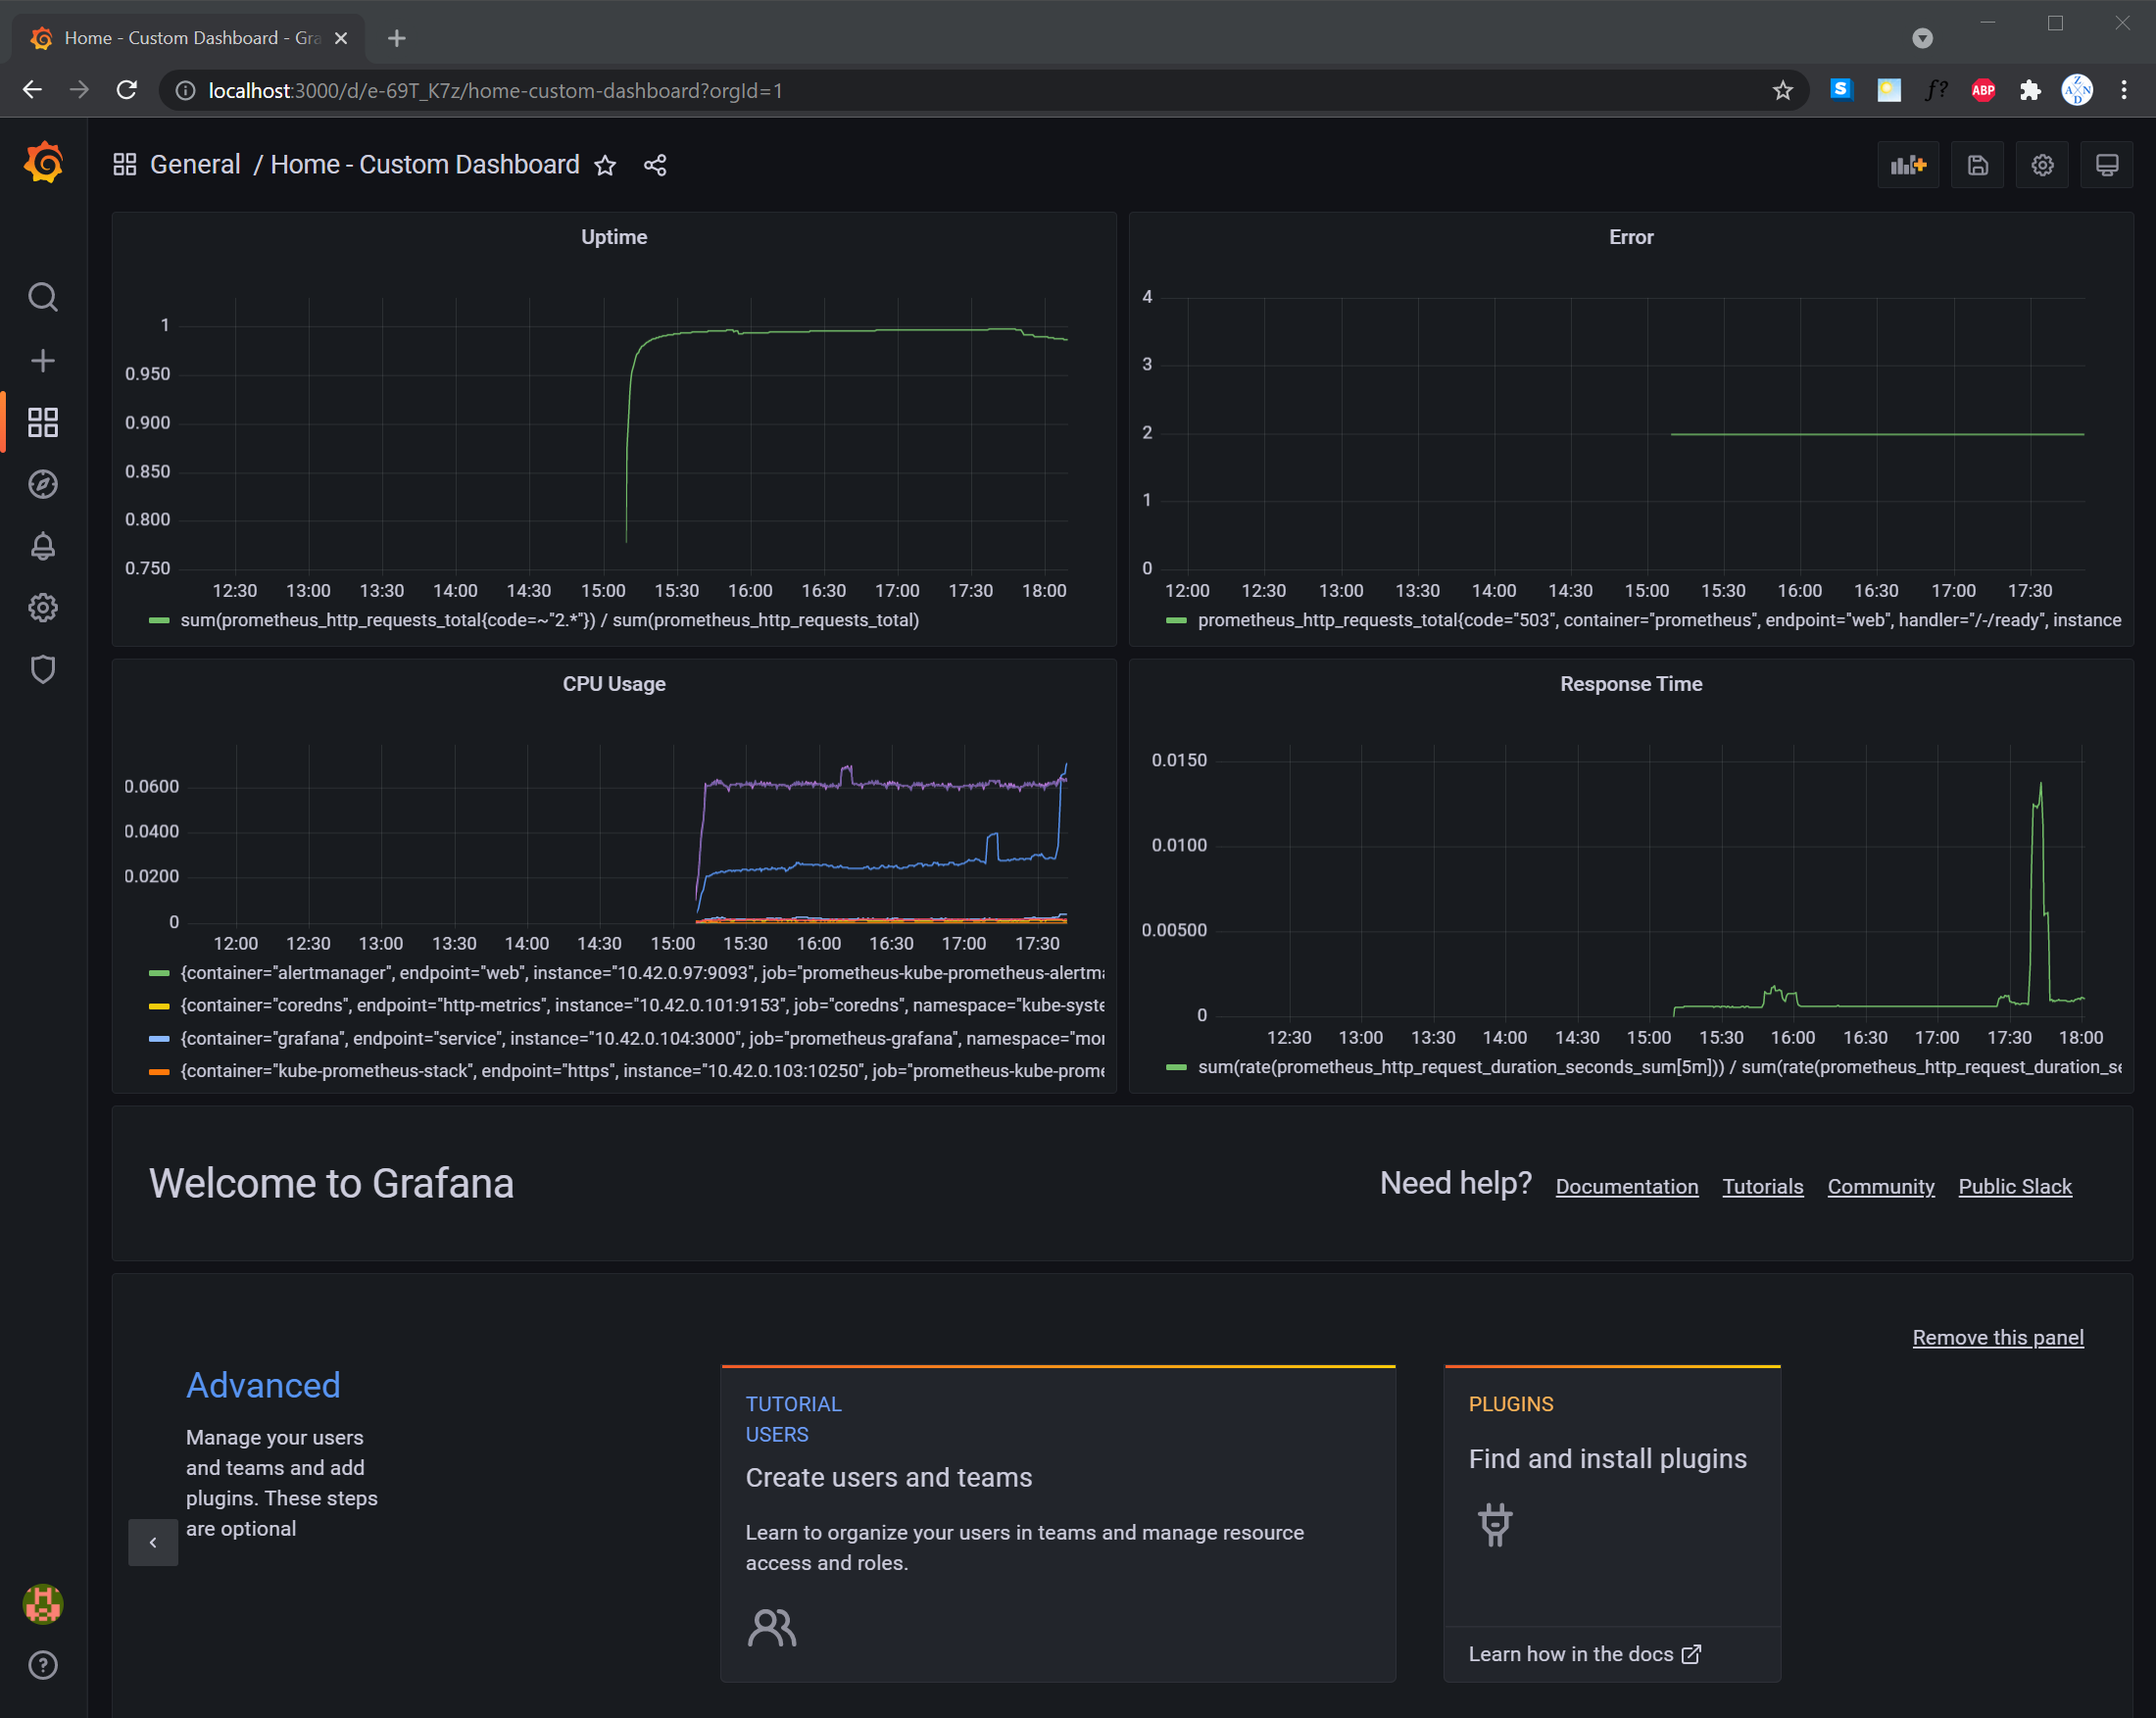
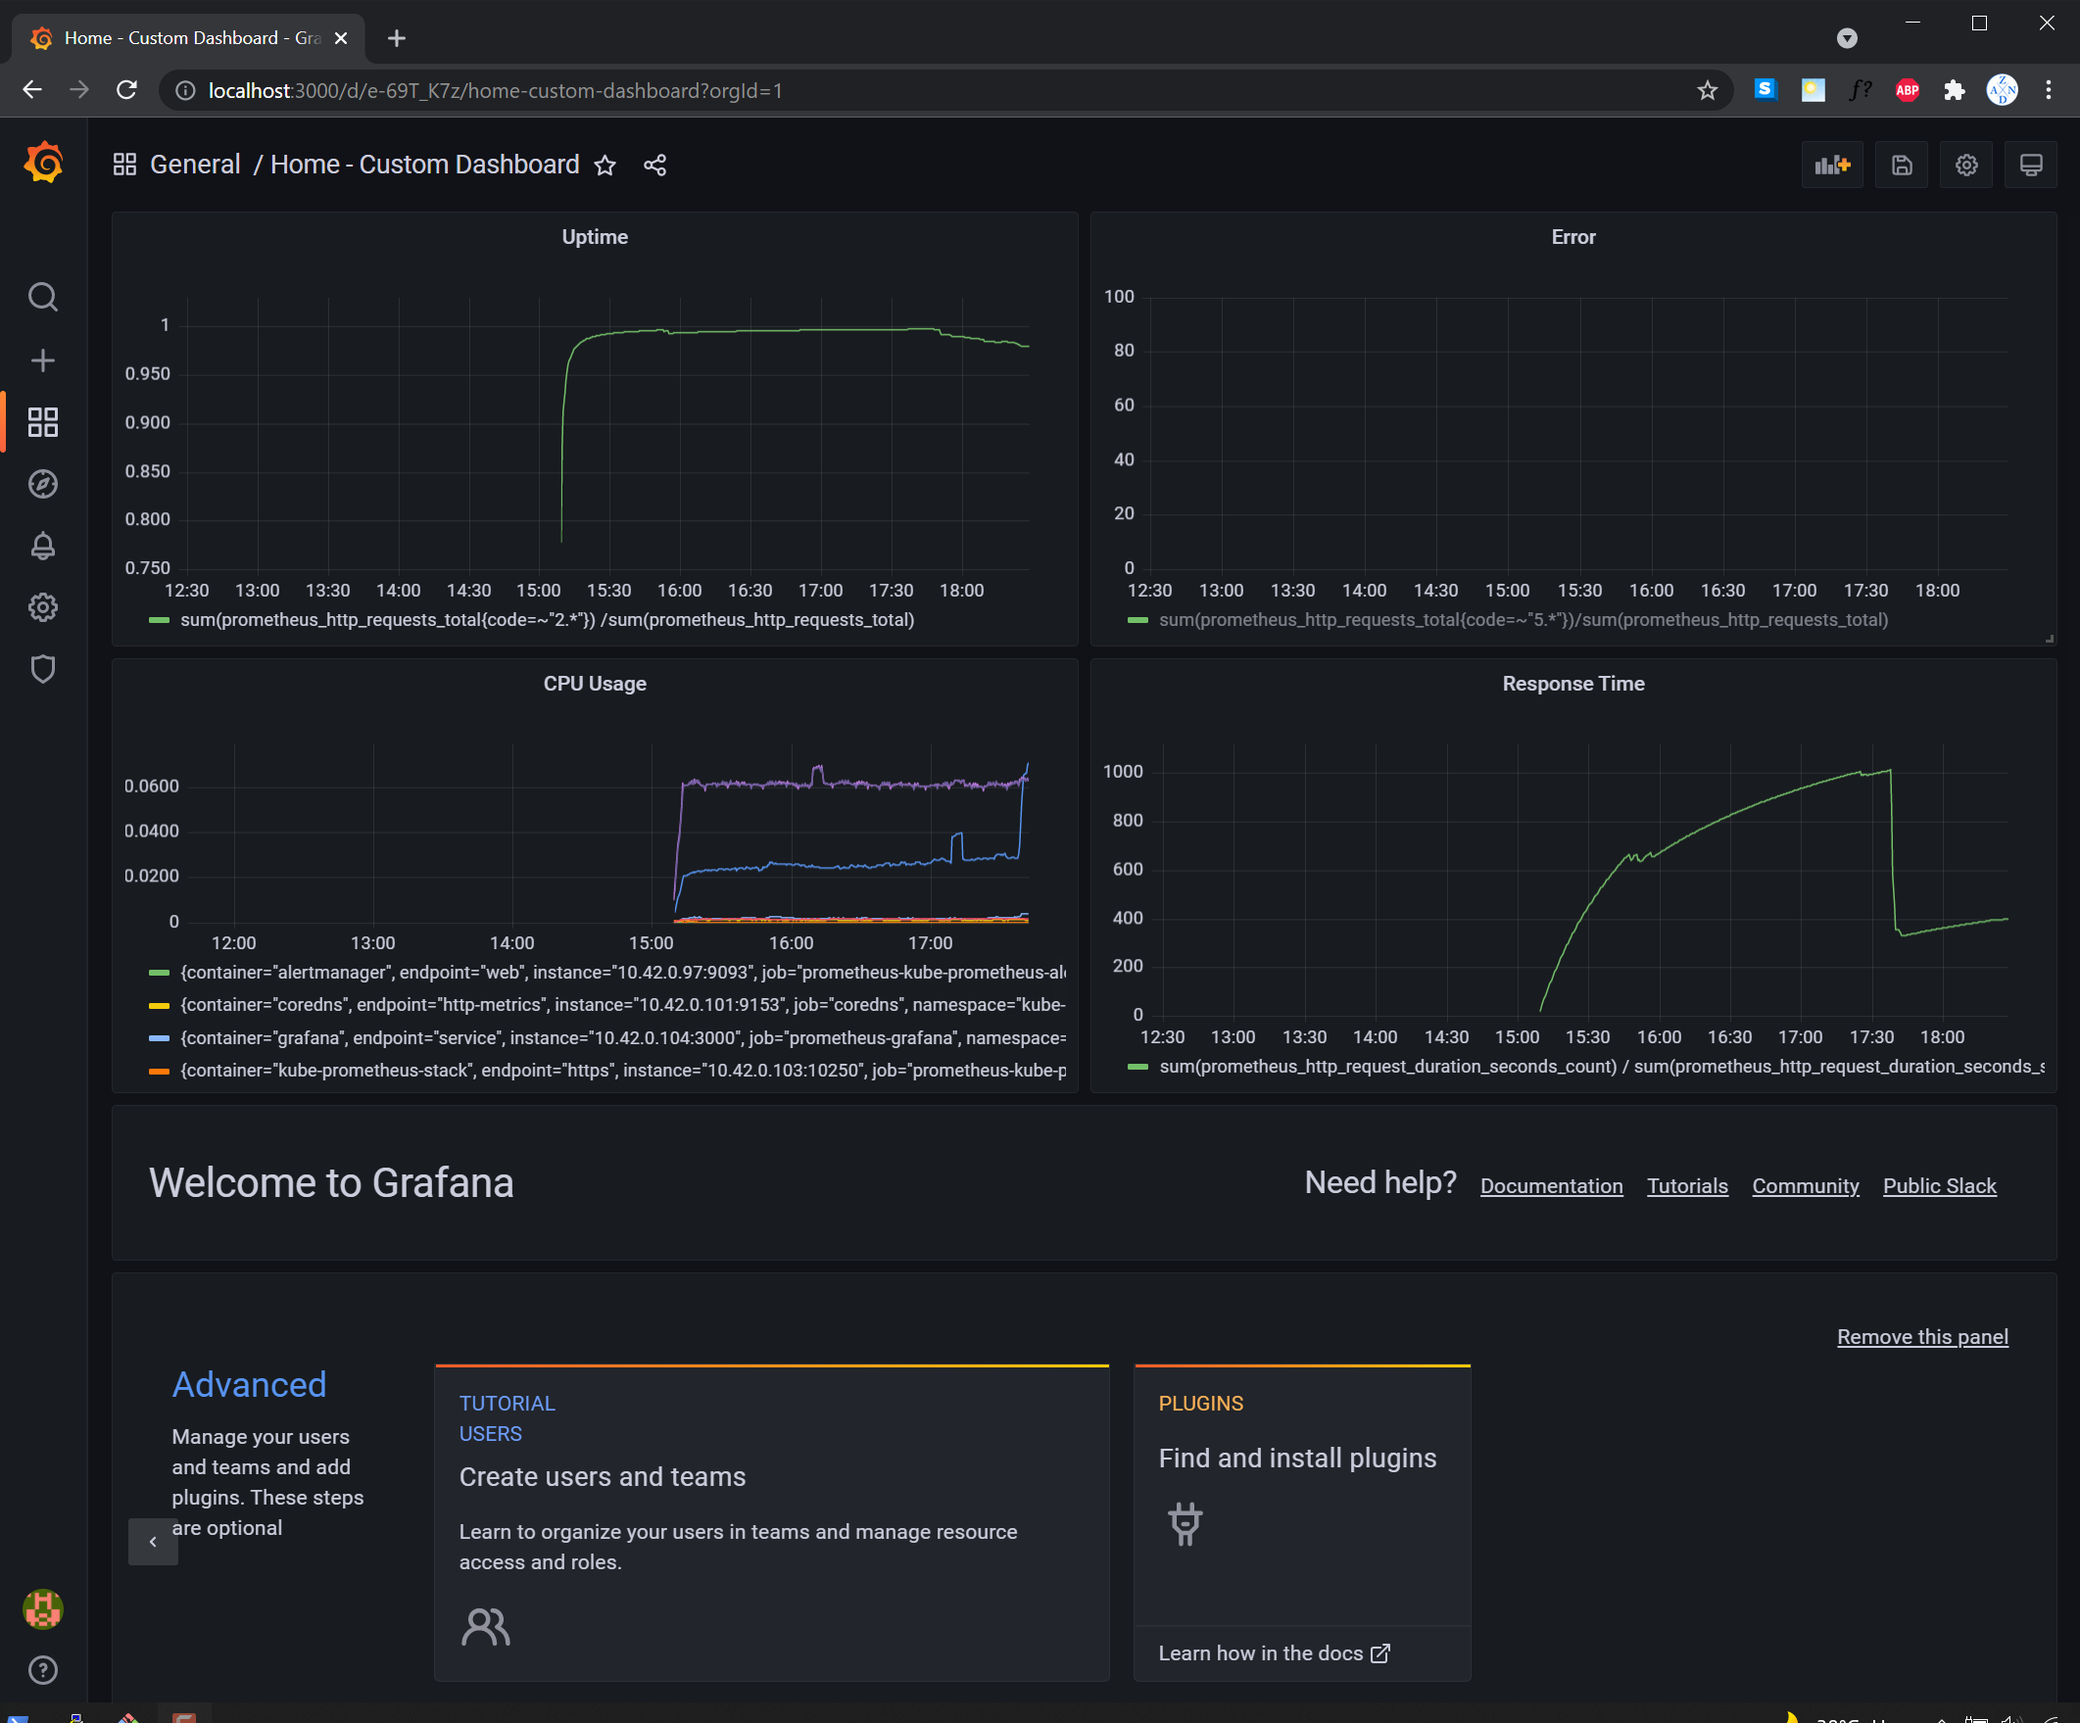
added ss of dashboard that measures prometheus sli

diff --git a/README.md b/README.md
@@ -55,18 +55,17 @@ PromQL Commands:
 1. Average 20x/30x: 
    1. To get count: prometheus_http_requests_total{code=~"2.*"}  and prometheus_http_requests_total{code=~"3.*"} 
    2. To get the average: sum(prometheus_http_requests_total{code=~"2.*"})/sum(prometheus_http_requests_total)
-2. Average incoming requests response: sum(rate(prometheus_http_request_duration_seconds_sum[5m])) / sum(rate(prometheus_http_request_duration_seconds_count[5m]))
+   3. Second metric: sum(prometheus_http_requests_total{code=~"3.*"})/sum(prometheus_http_requests_total)
+2. Average incoming requests response: 
+   1. sum(rate(prometheus_http_request_duration_seconds_sum[5m])) / sum(rate(prometheus_http_request_duration_seconds_count[5m]))
+   2. sum(prometheus_http_request_duration_seconds_count) / sum(prometheus_http_request_duration_seconds_sum)
 3. Average 50x:  prometheus_http_requests_total{code=~"5.*"}
 4. CPU usage: rate(process_cpu_seconds_total[5m])
 5. Login requests response: 
 
 
 
-sum(rate(prometheus_http_requests_total{code=~"2.*"})) / sum(rate(prometheus_http_requests_total))
-
-sum(rate(prometheus_http_requests_total{code=~"2.*"}[5m]))
-
-sum(rate(http_request_duration_seconds_sum[5m])) / sum(rate(http_request_duration_seconds_count[5m]))
+rate(prometheus_http_requests_total{code="200"}[1m])
 
 
 
